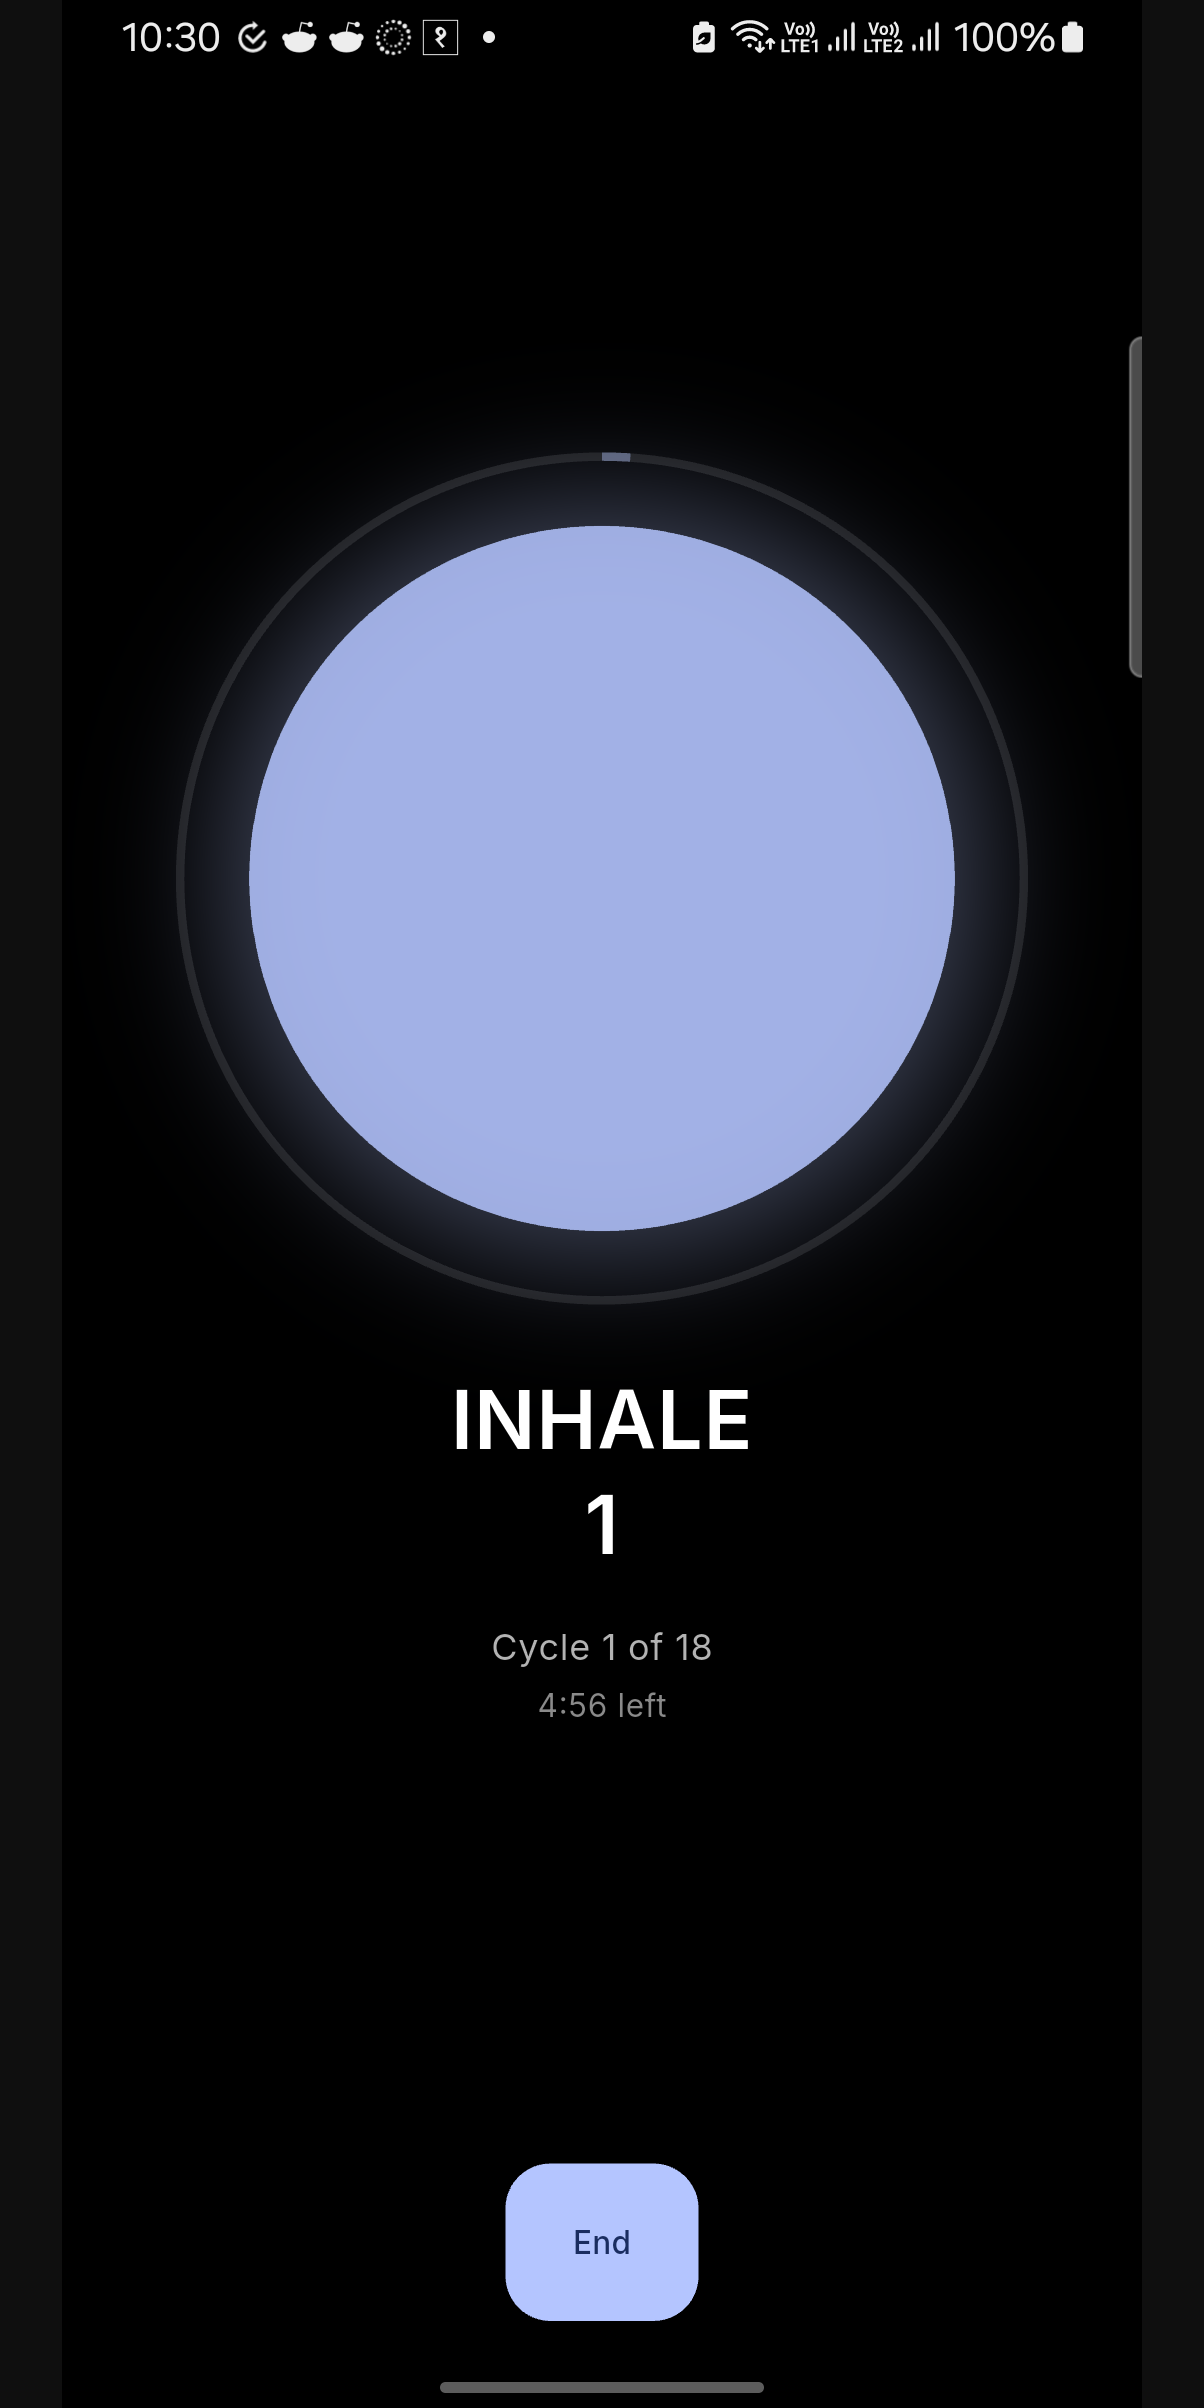
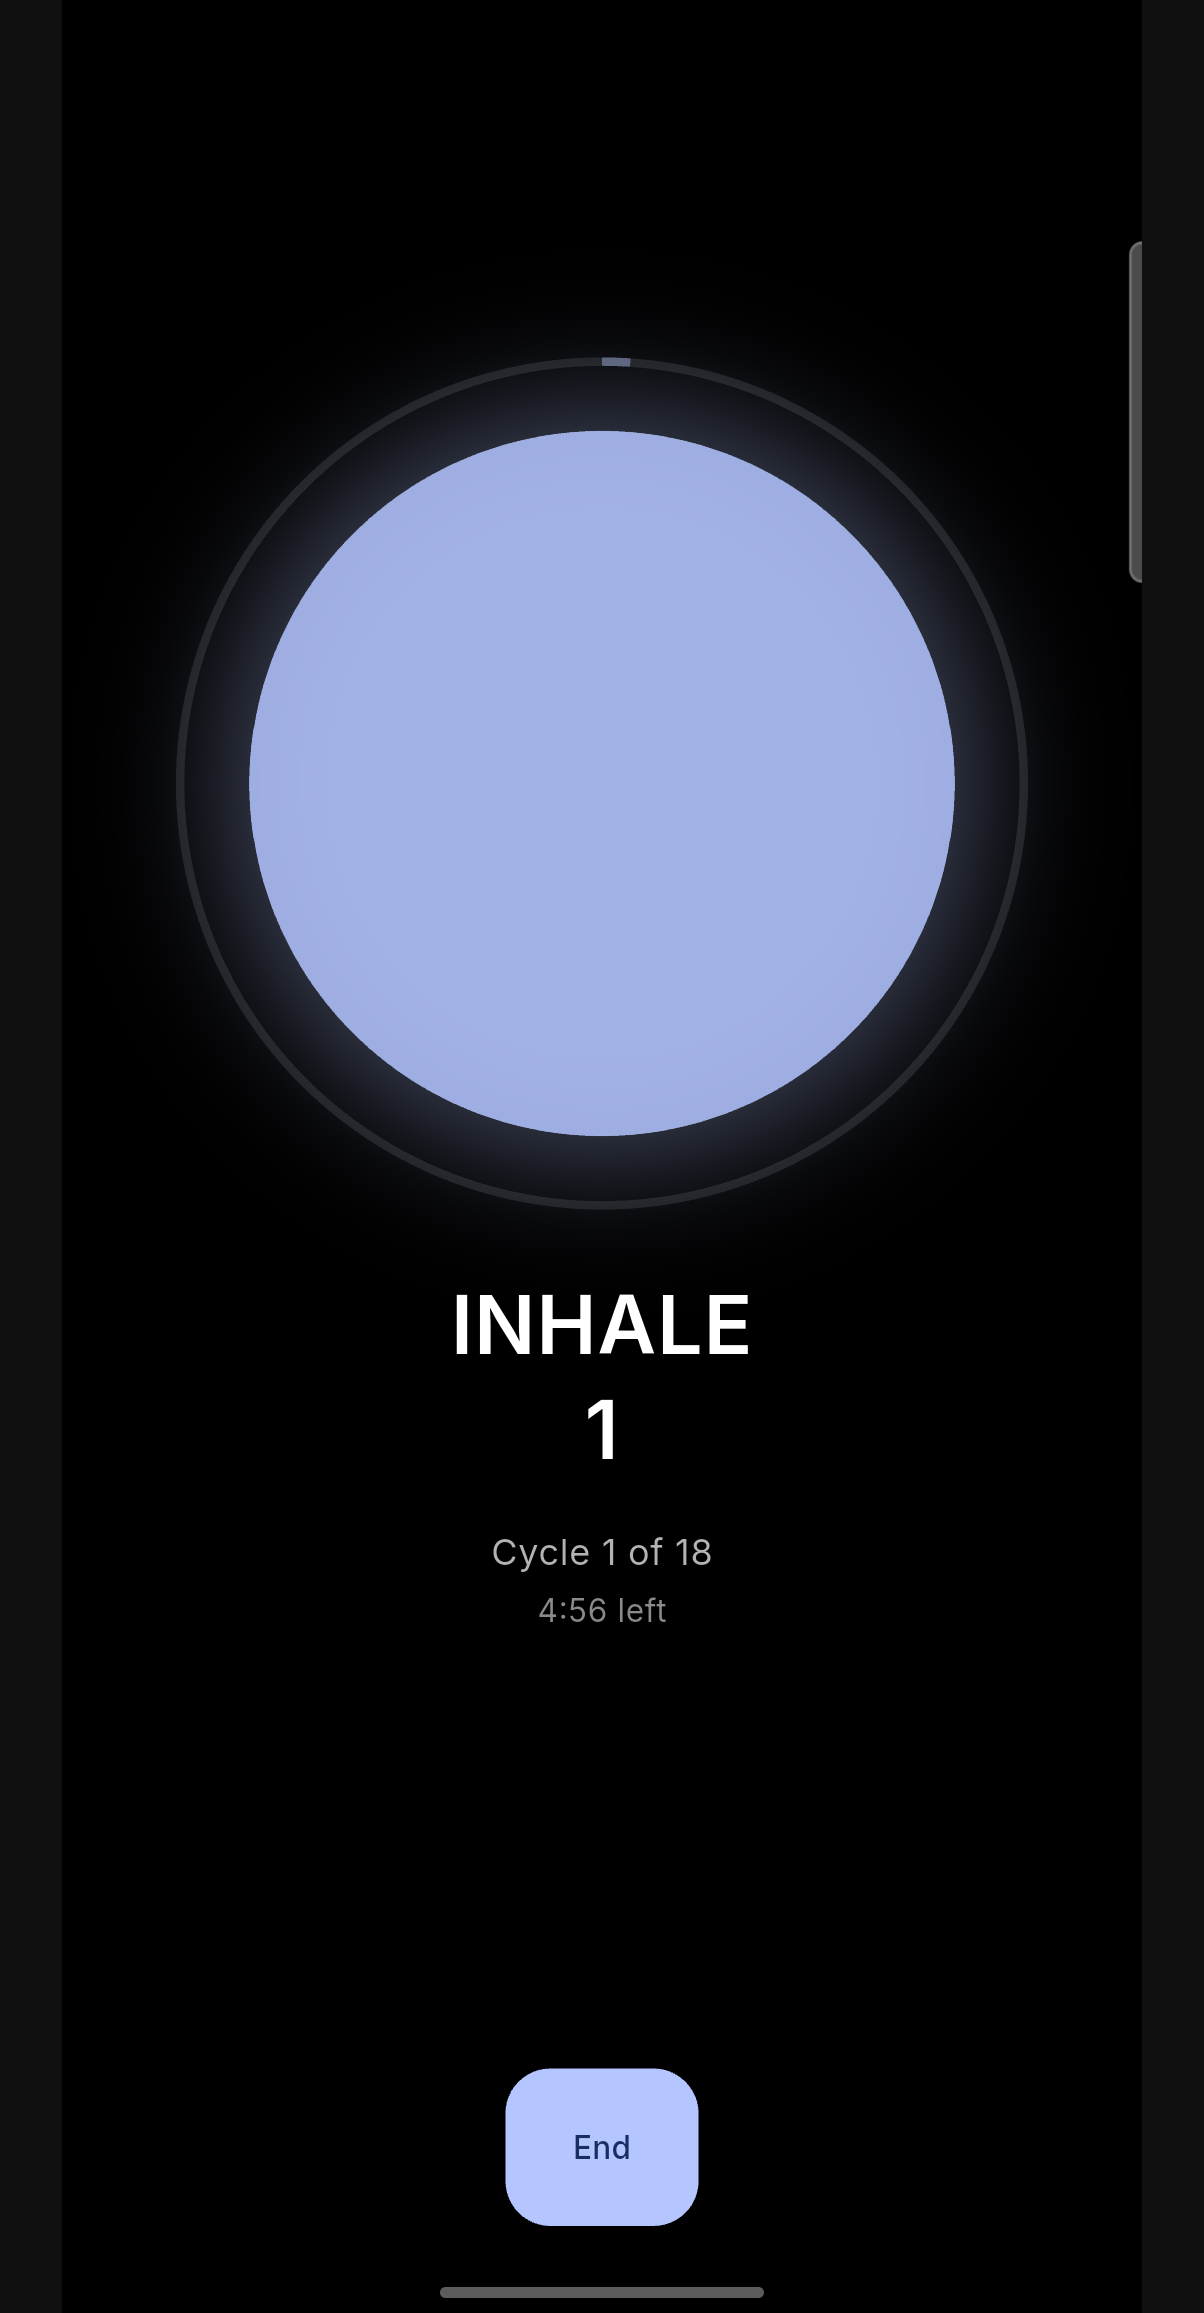
crop status bar from Respite screenshots; fix legal page header link to main site

diff --git a/respite-legal/privacy-policy.html b/respite-legal/privacy-policy.html
@@ -160,7 +160,7 @@
   <body>
 
     <nav>
-      <a href="privacy-policy.html" class="nav-brand"><img src="../images/respite/logo-128.png" alt="" />Respite</a>
+      <a href="../respite/" class="nav-brand"><img src="../images/respite/logo-128.png" alt="" />Respite</a>
       <div class="nav-links">
         <a href="privacy-policy.html">Privacy</a>
         <a href="terms-of-service.html">Terms</a>

diff --git a/respite-legal/terms-of-service.html b/respite-legal/terms-of-service.html
@@ -132,7 +132,7 @@
   <body>
 
     <nav>
-      <a href="privacy-policy.html" class="nav-brand"><img src="../images/respite/logo-128.png" alt="" />Respite</a>
+      <a href="../respite/" class="nav-brand"><img src="../images/respite/logo-128.png" alt="" />Respite</a>
       <div class="nav-links">
         <a href="privacy-policy.html">Privacy</a>
         <a href="terms-of-service.html">Terms</a>
